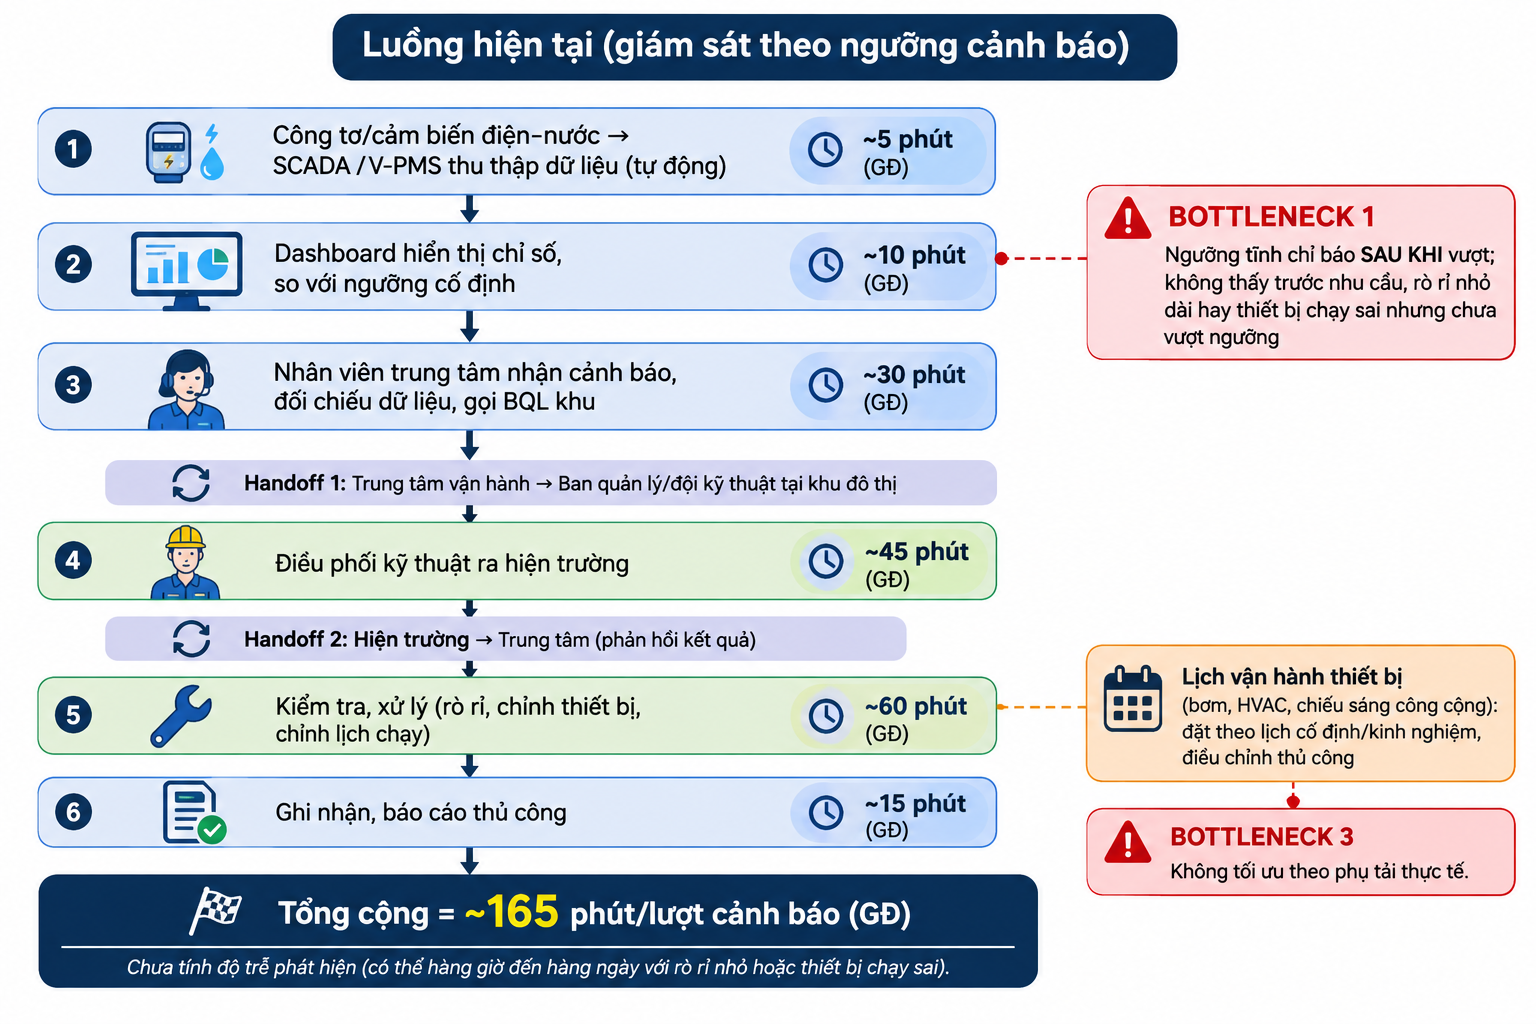
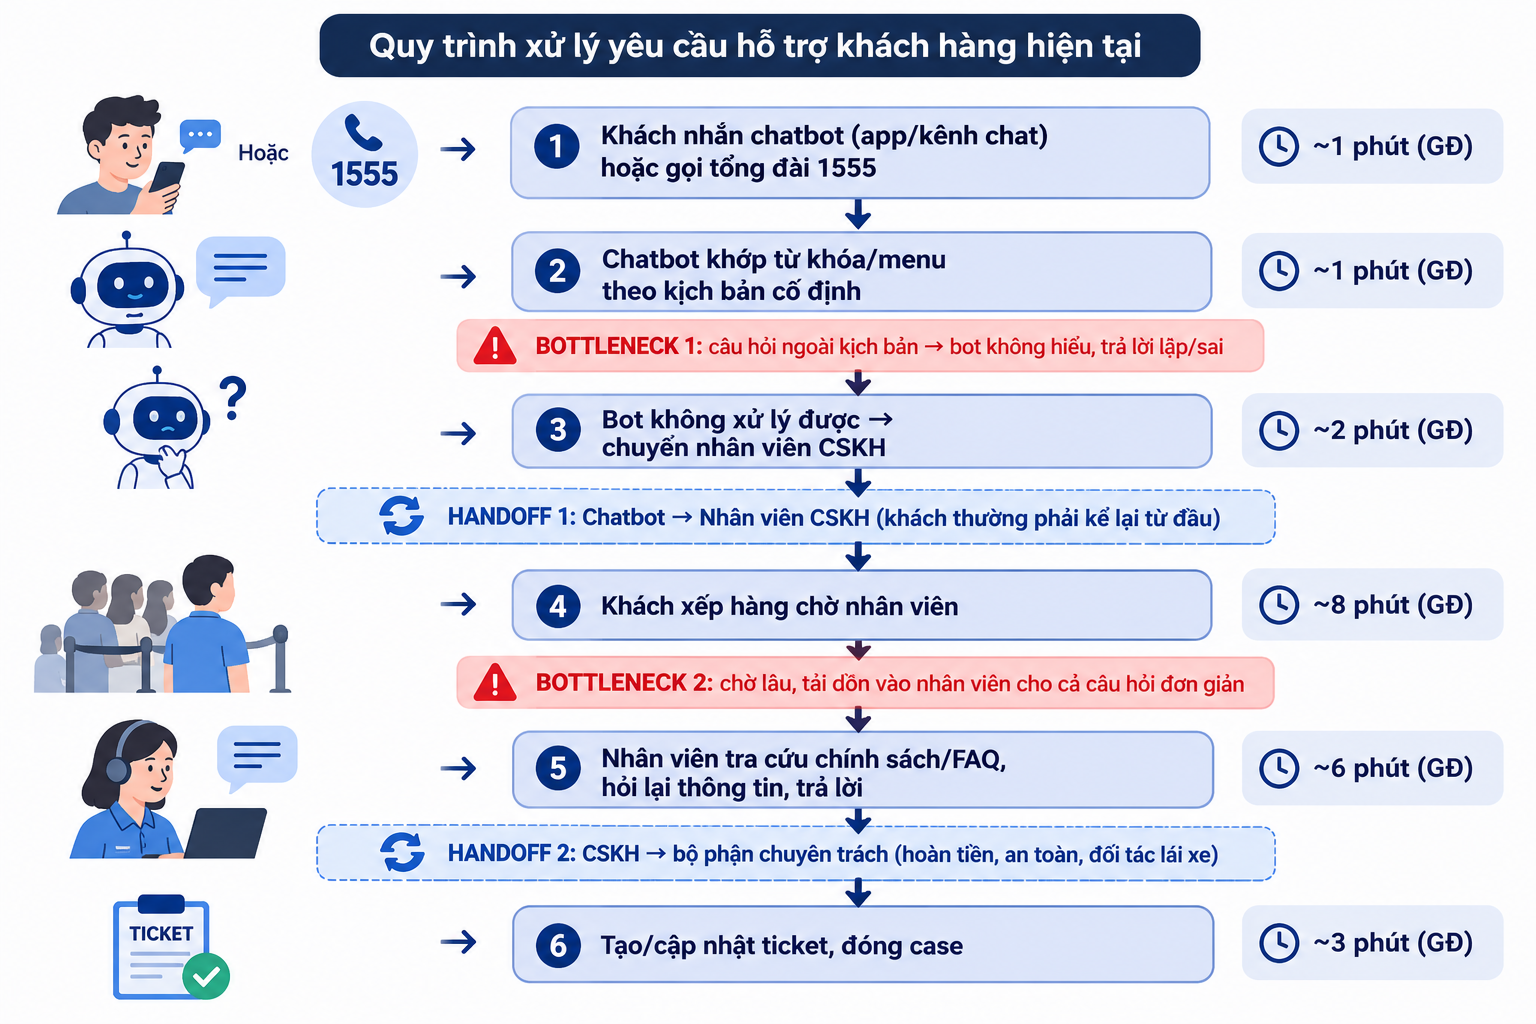
Feat: Complete individual assignment by Hoang Duc An

diff --git a/02-deep-dive-report.md b/02-deep-dive-report.md
@@ -16,74 +16,76 @@
 
 ## 3.1. Current-State Workflow Mapping
 
-Luồng hiện tại (giám sát theo ngưỡng cảnh báo):
+Luồng hiện tại (chatbot kịch bản cố định):
 
-[1] Công tơ/cảm biến điện-nước → SCADA / V-PMS thu thập dữ liệu (tự động) ........ ~5 phút (GĐ)
+[1] Khách nhắn chatbot (app/kênh chat) hoặc gọi tổng đài 1555 ....................... ~1 phút (GĐ)
       ↓
-[2] Dashboard hiển thị chỉ số, so với ngưỡng cố định ........................... ~10 phút (GĐ)
-      ↓   🔴 BOTTLENECK 1: ngưỡng tĩnh chỉ báo SAU KHI vượt; không thấy trước
-      ↓      nhu cầu, rò rỉ nhỏ kéo dài hay thiết bị chạy sai nhưng chưa vượt ngưỡng
-[3] Nhân viên trung tâm nhận cảnh báo, đối chiếu dữ liệu, gọi BQL khu .......... ~30 phút (GĐ)
-      ↓   🔄 HANDOFF 1: Trung tâm vận hành → Ban quản lý/đội kỹ thuật tại khu đô thị
-      ↓   🔴 BOTTLENECK 2: xác minh thủ công qua 32 khu đô thị, dễ báo nhầm/bỏ sót
-[4] Điều phối kỹ thuật ra hiện trường .......................................... ~45 phút (GĐ)
-      ↓   🔄 HANDOFF 2: Hiện trường → Trung tâm (phản hồi kết quả)
-[5] Kiểm tra, xử lý (rò rỉ, chỉnh thiết bị, chỉnh lịch chạy) ................... ~60 phút (GĐ)
-      ↓
-[6] Ghi nhận, báo cáo thủ công ................................................. ~15 phút (GĐ)
+[2] Chatbot khớp từ khóa/menu theo kịch bản cố định ................................. ~1 phút (GĐ)
+      ↓   🔴 BOTTLENECK 1: câu hỏi ngoài kịch bản → bot không hiểu, trả lời lặp/sai
+[3] Bot không xử lý được → chuyển nhân viên CSKH ..................................... ~2 phút (GĐ)
+      ↓   🔄 HANDOFF 1: Chatbot → Nhân viên CSKH (khách thường phải kể lại từ đầu)
+[4] Khách xếp hàng chờ nhân viên ..................................................... ~8 phút (GĐ)
+      ↓   🔴 BOTTLENECK 2: chờ lâu, tải dồn vào nhân viên cho cả câu hỏi đơn giản
+[5] Nhân viên tra cứu chính sách/FAQ, hỏi lại thông tin, trả lời ..................... ~6 phút (GĐ)
+      ↓   🔄 HANDOFF 2: CSKH → bộ phận chuyên trách (hoàn tiền, an toàn, đối tác lái xe)
+[6] Tạo/cập nhật ticket, đóng case ................................................... ~3 phút (GĐ)
 
-Lịch vận hành thiết bị (bơm, HVAC, chiếu sáng công cộng): đặt theo lịch cố định/kinh
-nghiệm, điều chỉnh thủ công → 🔴 BOTTLENECK 3: không tối ưu theo phụ tải thực tế.
-
-**Tổng cộng = ~165 phút/lượt cảnh báo (GĐ)**, chưa tính độ trễ phát hiện
-(có thể hàng giờ đến hàng ngày với rò rỉ nhỏ hoặc thiết bị chạy sai).
+**Tổng cộng = ~21 phút/lượt phải chuyển người (GĐ)**
+(câu hỏi đơn giản có trong kịch bản chỉ ~2 phút; thời gian dài nằm ở nhóm ngoài kịch bản)
 
 ## 3.2. Problem Statement (6-field) & Metrics
 
 | Field | Nội dung chi tiết |
 |---|---|
-| **1. Actor / Operator** | Nhân viên Trung tâm vận hành (giám sát điện/nước) và kỹ thuật viên/BQL tại 32 khu đô thị dùng V-PMS. |
-| **2. Current Workflow** | Dữ liệu từ IoT/SCADA hiện có hiển thị trên dashboard; hệ thống chỉ cảnh báo theo ngưỡng. Nhân viên xác minh thủ công, gọi điều phối kỹ thuật, xử lý và ghi nhận. Lịch vận hành thiết bị đặt theo kinh nghiệm/lịch cố định. |
-| **3. Bottleneck** | (a) Ngưỡng cố định không thấy trước nhu cầu, rò rỉ hay thiết bị chạy sai; (b) xác minh cảnh báo thủ công trên 32 khu; (c) không có công cụ dự báo/tối ưu lịch vận hành. Đây là bài toán dự báo và phát hiện bất thường, rule theo ngưỡng không đáp ứng tốt. |
-| **4. Business Impact** | Baseline công bố (Vinhomes AR 2025, tr.150–151): **322,3 triệu kWh/năm**, 1.253,1 TJ năng lượng, 32 khu đô thị. Nếu tiết kiệm 1–3% (giả định) và giá điện 2.500 VND/kWh (giả định): **8,1–24,2 tỷ VND/năm** (322,3 tr kWh × 2.500 = 805,8 tỷ; 1% = 8,1 tỷ; 3% = 24,2 tỷ). Lưu ý: 805,8 tỷ là con số quy đổi, không phải chi phí điện thực; cần tách điện khu vực công cộng khỏi điện riêng của cư dân để tránh tính trùng. |
-| **5. Success Metric** | *(GĐ, chốt lại sau khi có baseline thực)* • Giảm ≥1% kWh khu vực công cộng tại khu pilot sau 3 tháng, chuẩn hóa theo thời tiết/occupancy • MAPE dự báo phụ tải ngày kế tiếp ≤10% • Phát hiện ≥80% sự cố bất thường đã biết trong dữ liệu lịch sử, tỷ lệ báo nhầm ≤20% • Giảm thời gian từ phát hiện đến xác minh từ ~40 phút xuống ≤10 phút • ≥60% khuyến nghị được nhân viên duyệt/áp dụng. |
-| **6. Operational Boundary** | **Được phép:** đọc dữ liệu (read-only), dự báo phụ tải, gắn cờ bất thường kèm lý do, đề xuất lịch vận hành tối ưu. **TUYỆT ĐỐI không:** tự điều khiển/ghi lệnh xuống thiết bị SCADA/OT, tự thay đổi lịch vận hành, tự đóng/mở bơm hay tải. **Cần duyệt:** mọi khuyến nghị đều do nhân viên vận hành phê duyệt từng cái trước khi thực hiện (thủ công qua hệ thống hiện có). |
+| **1. Actor / Operator** | Nhân viên CSKH (chat + tổng đài 1555, 24/7) của Xanh SM; khách hàng đi xe; bộ phận chuyên trách (hoàn tiền, an toàn) nhận case chuyển tiếp. |
+| **2. Current Workflow** | Chatbot trả lời theo kịch bản/menu cố định. Câu hỏi ngoài kịch bản được chuyển nhân viên, nhân viên tra FAQ/chính sách, hỏi lại khách, xử lý và tạo ticket thủ công. |
+| **3. Bottleneck** | (a) Bot không hiểu câu hỏi tự do, diễn đạt khác nhau; (b) khách chờ nhân viên lâu; (c) nhân viên mất thời gian cho câu hỏi lặp lại, có đáp án sẵn trong chính sách/FAQ. Đây là bài toán hiểu và sinh ngôn ngữ tự nhiên, kịch bản cố định không đáp ứng tốt. |
+| **4. Business Impact** | Quy mô: Green SM chiếm 54,51% thị phần Q1/2026; toàn ngành 153,26 triệu chuyến/quý (Mordor Intelligence qua LSVN) → ~83,5 triệu chuyến/quý ≈ **~0,9 triệu chuyến/ngày** (tự tính). Chi phí liên hệ: tổng đài 1555 hoạt động 24/7, 1.000đ/phút (nguồn Green SM). Tổn thất: thời gian chờ của khách, chi phí nhân sự CSKH, rủi ro CSAT thấp. **Chưa có baseline** số lượt liên hệ/ngày, tỷ lệ tự giải quyết hiện tại, thời gian chờ trung bình; đây là việc phải đo đầu tiên. Lưu ý: 0,9 triệu chuyến/ngày là quy mô chuyến, không phải số lượt liên hệ CSKH. |
+| **5. Success Metric** | *(GĐ, chốt sau khi có baseline thực)* • ≥50% câu hỏi ngoài kịch bản (nhóm không nhạy cảm) được bot tự giải quyết, không chuyển người • Thời gian phản hồi đầu tiên ≤10 giây • Giảm thời gian chờ trung bình của nhóm này từ ~8 phút xuống ≤2 phút • CSAT của hội thoại do bot xử lý ≥ mức hiện tại của nhân viên (không thấp hơn quá 0,2 điểm) • Tỷ lệ trả lời sai chính sách (kiểm bằng mẫu) ≤2%; case nhạy cảm chuyển người đúng 100% trên tập test. |
+| **6. Operational Boundary** | **Được phép:** trả lời dựa trên chính sách/FAQ chính thức đã phê duyệt (RAG, kèm trích nguồn nội bộ); phân loại ý định; thu thập thông tin trước khi chuyển người; tóm tắt hội thoại cho nhân viên. **TUYỆT ĐỐI không:** bịa chính sách/giá/điều khoản; tự quyết định hoàn tiền, bồi thường; xử lý tình huống an toàn (tai nạn, quấy rối, khẩn cấp) mà không chuyển người ngay; hứa hẹn ngoài chính sách; yêu cầu thông tin nhạy cảm (mật khẩu, OTP). **Cần duyệt/chuyển người:** hoàn tiền, an toàn, khiếu nại tài chính, khách bực tức, bot không chắc (dưới ngưỡng tin cậy), câu hỏi ngoài phạm vi nội dung chính sách. |
 
 ## 3.3. Future-State Flow & AI Fit
 
 * **AI-Fit Matrix:** [ ] Rule / State-Machine  [x] **LLM Feature**  [ ] Agentic Loop
-  *(Lõi là mô hình ML: dự báo chuỗi thời gian + phát hiện bất thường. Nếu thêm lớp LLM thì chỉ để diễn giải cảnh báo/khuyến nghị bằng ngôn ngữ tự nhiên. Không dùng Agentic Loop vì AI không tự hành động. Rule theo ngưỡng vẫn giữ làm lớp an toàn.)*
+  *(LLM + truy xuất chính sách/FAQ (RAG) để trả lời câu hỏi tự do. Không dùng Agentic Loop vì bot không tự thực hiện hành động như hoàn tiền; luật chuyển người cho case nhạy cảm vẫn là rule cứng đứng trước LLM.)*
 
 * **Future-State Flow:**
 
-[SCADA/V-PMS hiện có] → dữ liệu điện/nước, thời tiết, occupancy (read-only)
+Khách nhắn chat / gọi 1555
       ↓
-🔵 AI Step 1: Dự báo phụ tải điện/nước (ngày/tuần)
-🔵 AI Step 2: Phát hiện bất thường (rò rỉ, thiết bị chạy sai, tiêu thụ lệch dự báo)
-🔵 AI Step 3: Đề xuất lịch vận hành tối ưu + giải thích lý do/độ tin cậy
+Rule cứng: phát hiện từ khóa nhạy cảm/an toàn → chuyển người NGAY (bỏ qua LLM)
       ↓
-🟢 Human Step (HITL): Nhân viên Trung tâm vận hành xem, duyệt / sửa / từ chối TỪNG khuyến nghị
+🔵 AI Step 1: Phân loại ý định + mức nhạy cảm
+🔵 AI Step 2: Truy xuất chính sách/FAQ chính thức, soạn câu trả lời kèm độ tin cậy
       ↓
-Thực hiện qua quy trình & hệ thống hiện có (không qua AI) → ghi nhận kết quả
+   Độ tin cậy cao + case thường → bot trả lời khách → hỏi "đã giải quyết chưa?"
+   Độ tin cậy thấp / nhạy cảm → chuyển người kèm tóm tắt hội thoại
       ↓
-Vòng phản hồi: quyết định duyệt/từ chối được lưu để cải thiện mô hình
+🟢 Human Step (HITL): Nhân viên CSKH nhận case nhạy cảm/không chắc (đã có sẵn tóm tắt,
+   không cần khách kể lại), xử lý hoàn tiền/an toàn; duyệt mẫu hội thoại bot hằng tuần
+      ↓
+Ghi ticket, lưu kết quả (đã giải quyết / chuyển người / khách đánh giá) → cải thiện FAQ, prompt
 
   ↩ Fallback:
-  • Dữ liệu thiếu/lỗi cảm biến hoặc độ tin cậy thấp → AI không phát khuyến nghị, gắn nhãn
-    "không đủ tin cậy", chuyển về cảnh báo theo ngưỡng như hiện tại
-  • AI/mô hình ngừng hoạt động → hệ thống giám sát hiện có chạy bình thường (AI chỉ là lớp bổ sung)
-  • Khuyến nghị bất thường ngoài biên an toàn → chặn và leo thang cho kỹ sư trưởng
+  • LLM lỗi/timeout hoặc độ tin cậy thấp → trả lời mẫu "em chuyển anh/chị sang nhân viên"
+    và chuyển người, không đoán
+  • Không tìm thấy nội dung chính sách phù hợp → không trả lời tự do, chuyển người
+  • Khách yêu cầu gặp người / lặp lại 2 lần chưa hài lòng → chuyển người ngay
+  • LLM ngừng hoạt động → chatbot kịch bản hiện tại chạy như cũ
 
 # 🏁 Phase 5 — EVALUATE
 
 ### AI Readiness Checklist:
-1. [~] Chúng tôi có sẵn dữ liệu mẫu/logs sạch để test? 
-   → Có nền tảng (V-PMS/SCADA ở 32 khu, có số liệu kWh), nhưng CHƯA xác nhận chất lượng,
-     độ dài lịch sử, độ phủ meter; cần xin truy cập OT (Feasibility 3/5).
+1. [~] Chúng tôi có sẵn dữ liệu mẫu/logs sạch để test?
+   → Có log chat và FAQ (Data 4/5), nhưng chưa xác nhận chất lượng, độ cập nhật của chính sách
+     và mức độ che thông tin cá nhân; cần kiểm tra trước khi dùng.
 2. [x] Rủi ro khi AI sai có nằm trong tầm kiểm soát (qua HITL hoặc Fallback)?
-   → Có: AI chỉ đề xuất, người duyệt từng khuyến nghị, không điều khiển thiết bị, có fallback về ngưỡng.
+   → Kiểm soát được nếu giữ ranh giới chặt: rule cứng chuyển người cho case nhạy cảm, chỉ trả lời từ
+     chính sách đã duyệt, có fallback và chạy shadow mode trước. Rủi ro cao hơn case điện/nước vì
+     bot nói chuyện trực tiếp với khách.
 3. [~] Stakeholders sẵn sàng thay đổi quy trình làm việc cũ?
-   → Chưa xác nhận; thay đổi nhỏ (thêm 1 bước duyệt khuyến nghị) nên khả thi, cần cam kết từ Trung tâm vận hành.
+   → Chưa xác nhận; cần CSKH đồng ý quy trình nhận case kèm tóm tắt và bộ phận chính sách
+     chịu trách nhiệm cập nhật nội dung nguồn.
 
 ### Quyết định cuối cùng của Ban Giám Đốc Vin Smart Future:
 [x] **GO (Bắt đầu xây dựng Prototype):** scope hẹp, có điều kiện
@@ -91,16 +93,18 @@ Vòng phản hồi: quyết định duyệt/từ chối được lưu để cả
 [ ] **NO-GO**
 
 **Justification:**
-> GO với scope hẹp: pilot 1–2 khu đô thị, chỉ dự báo phụ tải + phát hiện bất thường ở chế độ
-> khuyến nghị (read-only), chưa làm tối ưu lịch ở giai đoạn đầu.
-> • Bằng chứng nhu cầu: WOS 89/100 (High Opportunity); baseline công bố rõ (322,3 triệu kWh,
->   1.253,1 TJ, 32 khu); ROI kịch bản lớn nhất trong 3 case (8,1–24,2 tỷ VND/năm, giả định).
-> • AI cần thiết thật: dự báo và phát hiện bất thường là bài toán rule theo ngưỡng không giải tốt.
-> • Rủi ro thấp: AI không điều khiển thiết bị, có HITL và fallback; chi phí pilot nhỏ vì chạy trên
->   hạ tầng IoT/SCADA sẵn có.
-> • Đo lường rõ: so sánh trước–sau bằng kWh/chi phí, chuẩn hóa theo thời tiết/occupancy.
-> • Điều kiện để tiếp tục (nếu không đạt thì chuyển sang NOT YET): (1) được cấp quyền đọc
->   dữ liệu SCADA/meter; (2) có ≥12 tháng lịch sử đủ sạch ở khu pilot; (3) Vinhomes xác nhận giá điện
->   và tách điện công cộng khỏi điện cư dân; (4) vượt 3 Gate (Evidence of Pain, AI Necessity, Data
->   Access) vì điểm WOS mới là đánh giá sơ bộ từ thông tin công khai.
-> • Rủi ro cần lưu ý: mức tiết kiệm 1–3% chưa được xác nhận; khoảng cách 89 vs 82/81 là chấm định tính.
+> GO với scope hẹp: prototype chỉ trả lời nhóm FAQ/chính sách không nhạy cảm (giá cước, quy trình
+> đặt/hủy chuyến, đồ thất lạc, hướng dẫn app), chạy shadow mode 2–4 tuần (bot soạn nháp, người
+> quyết định) rồi mới cho trả lời trực tiếp một phần lưu lượng. Hoàn tiền và an toàn luôn chuyển người.
+> • Bằng chứng nhu cầu: WOS 88/100; quy mô lớn (~0,9 triệu chuyến/ngày, tự tính); AI Advantage 5/5
+>   vì câu hỏi tự do là điểm mạnh của LLM mà kịch bản cố định không xử lý được.
+> • Đo lường rõ: tỷ lệ tự giải quyết, thời gian phản hồi, CSAT đều đo được từ log.
+> • Rủi ro kiểm soát được: RAG trên chính sách chính thức, rule cứng cho case nhạy cảm, fallback về
+>   người và về chatbot cũ.
+> • Điều kiện để tiếp tục (nếu không đạt thì chuyển sang NOT YET): (1) đo baseline trong 2 tuần đầu
+>   (lượt liên hệ/ngày, tỷ lệ tự giải quyết, thời gian chờ); (2) bộ FAQ/chính sách được duyệt và có
+>   người chịu trách nhiệm cập nhật; (3) tích hợp được ticket (feasibility 3/5); (4) qua 3 Gate
+>   (Evidence of Pain, AI Necessity, Data Access) vì điểm WOS mới là đánh giá sơ bộ từ thông tin công khai.
+> • Rủi ro cần lưu ý: chủ yếu giảm chi phí, không trực tiếp tăng doanh thu (Impact 4/5); nguy cơ
+>   bịa chính sách là rủi ro thương hiệu, nên ngưỡng "trả lời sai ≤2%" là điều kiện bắt buộc trước
+>   khi mở rộng.
